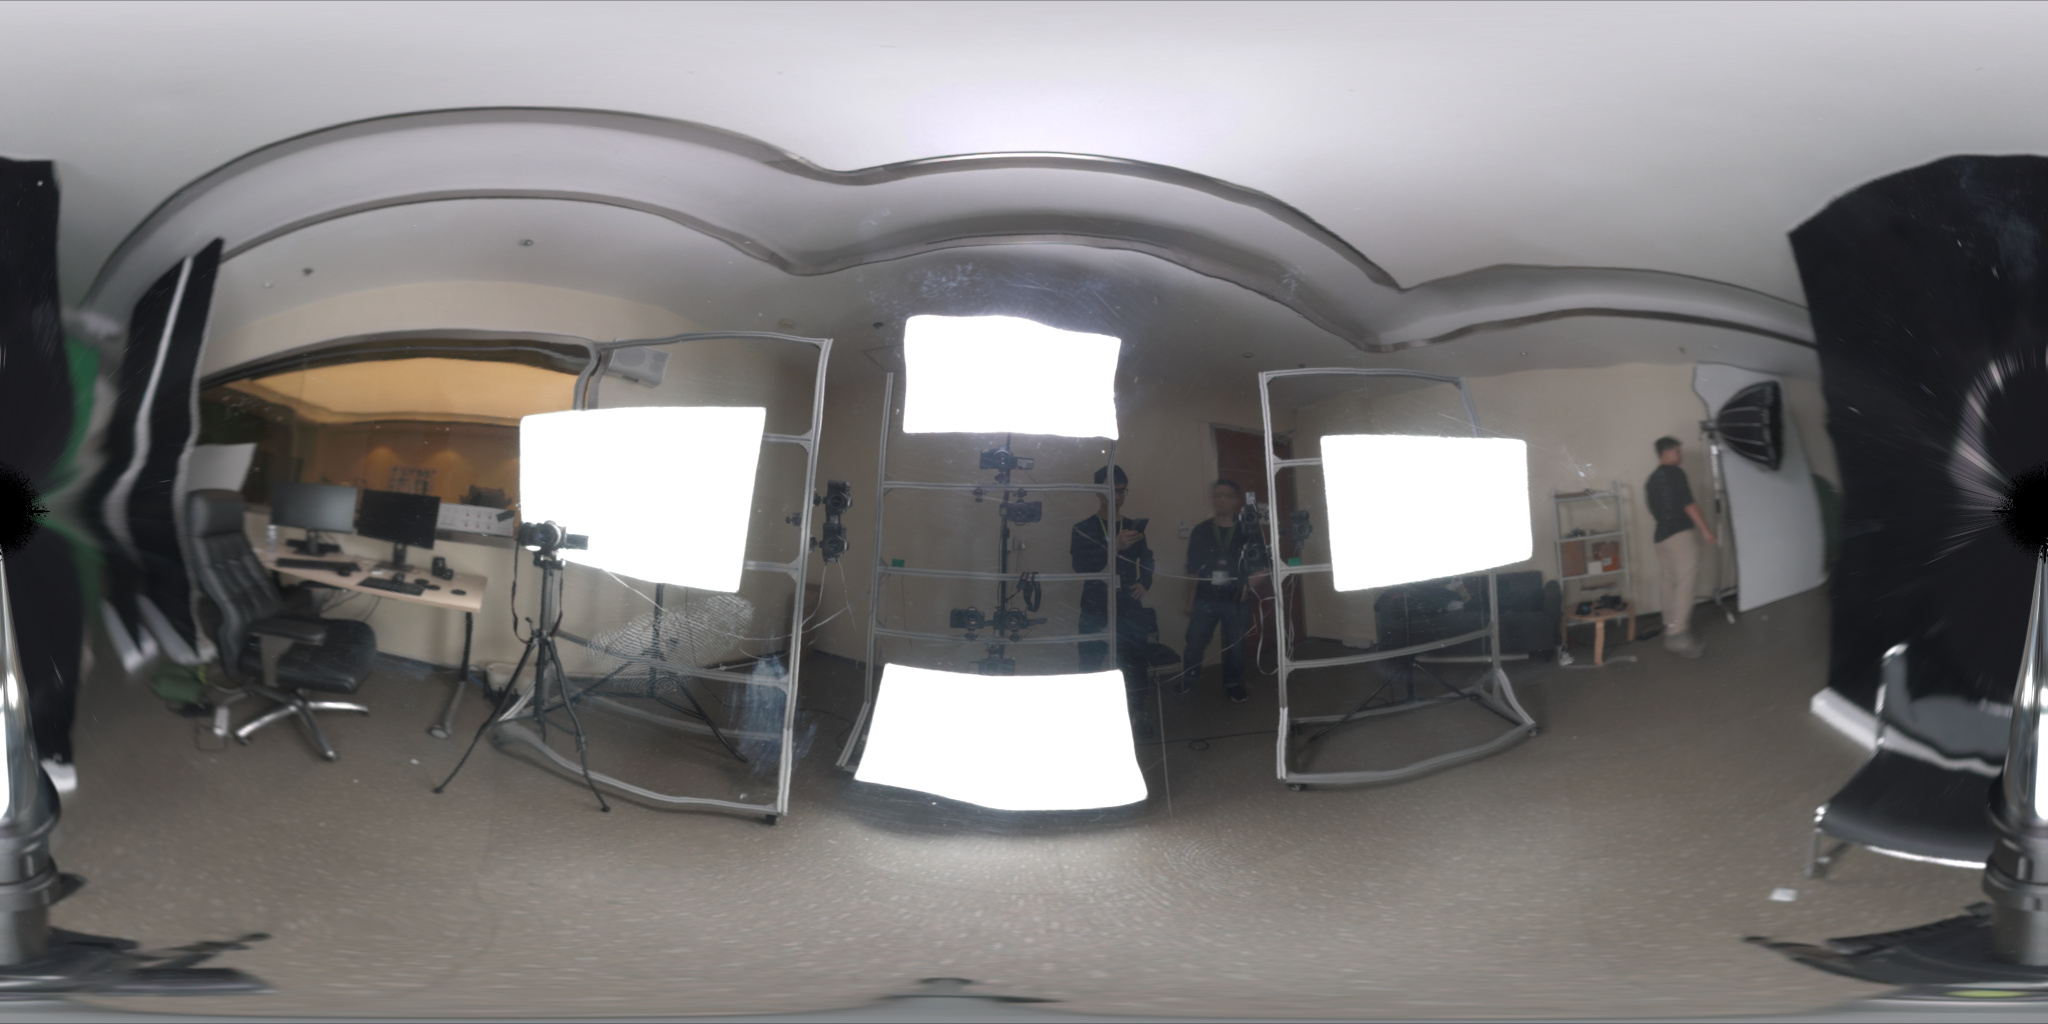
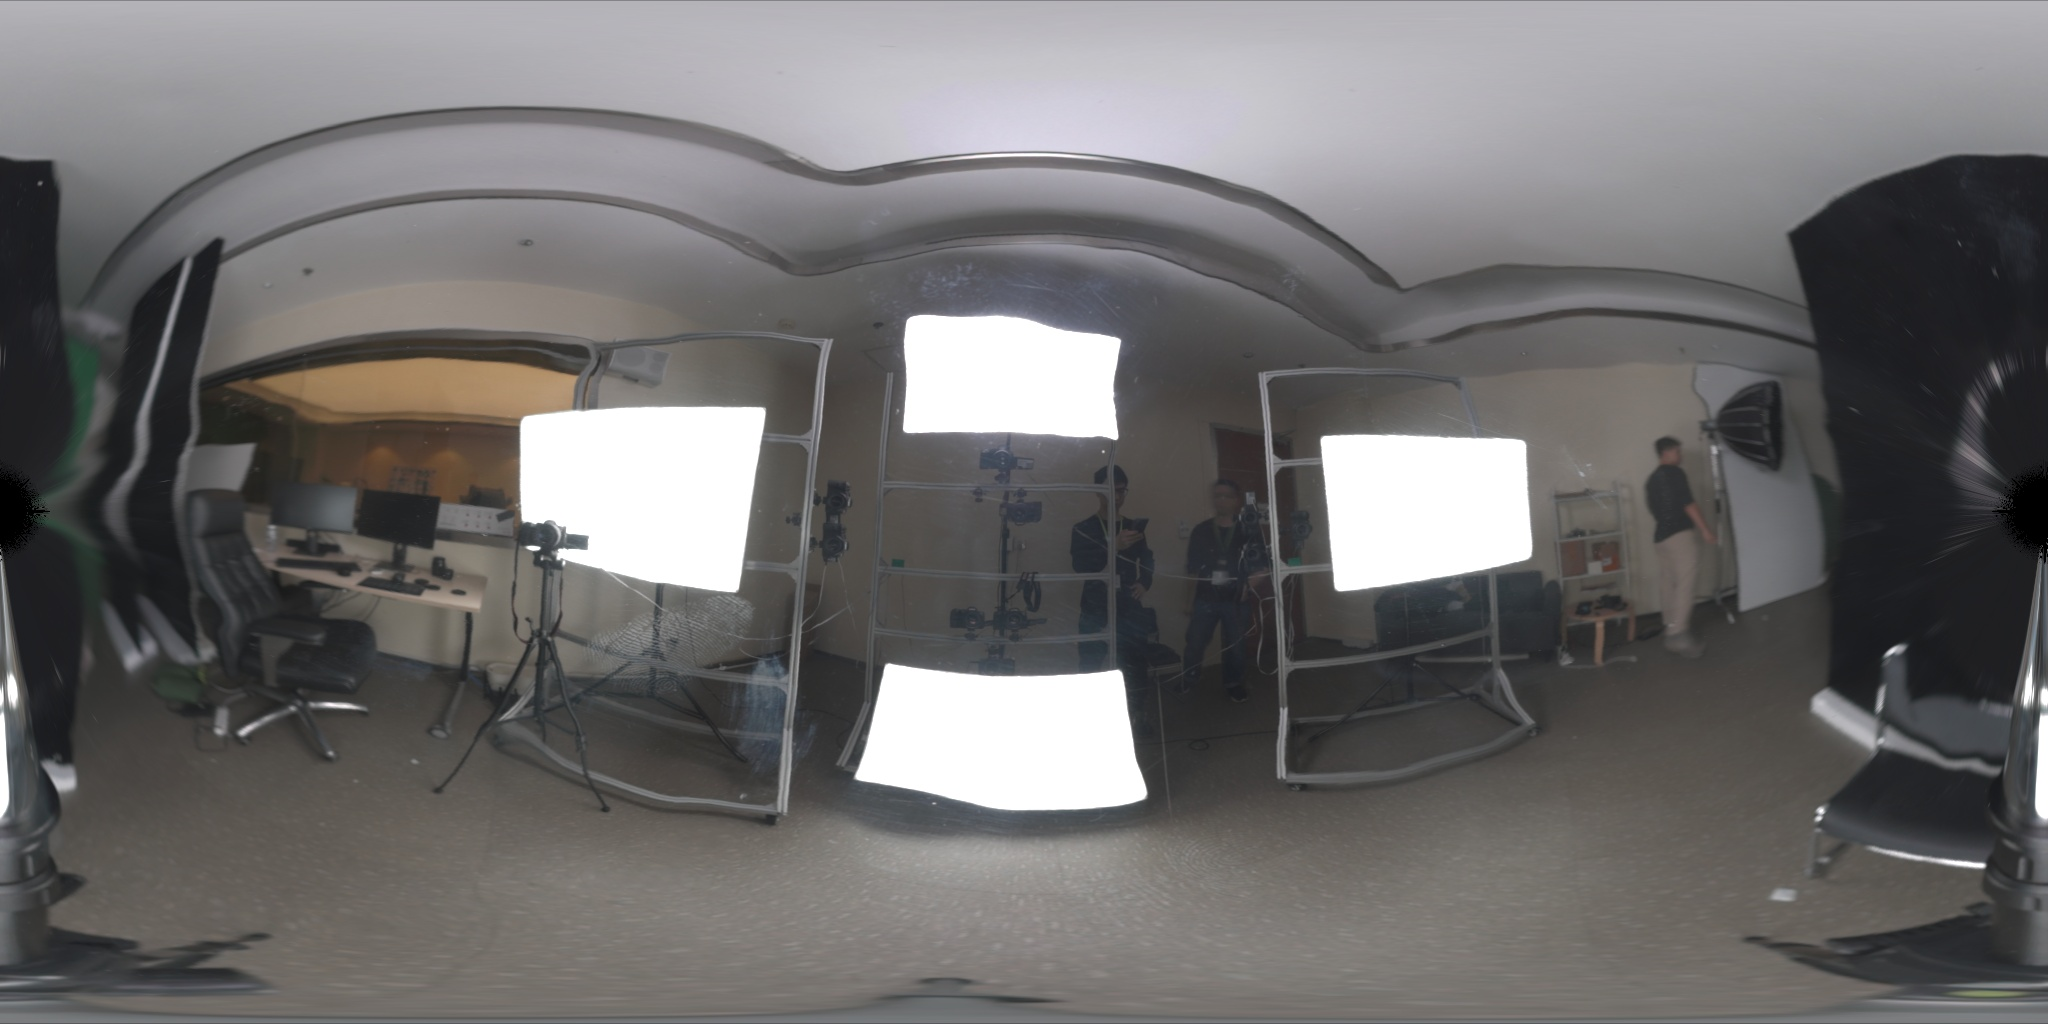
enhance HDRI figure

diff --git a/platform.tex b/platform.tex
@@ -202,9 +202,19 @@
 使用该技术编码的光照信息也常被用于计算机图形学领域。
 如图\ref{fig:HDRI}是一张以本节所述方法合成的，记录了本文目前实验环境的HDRI图像。
 \begin{figure}
-\centering
-\includegraphics[width=\textwidth]{figures/HDRI}
-\caption[实验环境全景HDRI图像]{实验环境全景HDRI图像。大图中展示了其中较暗部分的信息}
+\begin{tikzpicture}
+    \node [inner sep=0pt, anchor=north west] at (0,0) {\includegraphics[width=\textwidth]{figures/HDRI}};
+
+    \def\w{4096}
+    \node [inner sep=0pt, anchor=north west] (part) at (8.5cm,-0.8cm) {\includegraphics[width=0.1201171875\textwidth]{figures/HDRI_light_part}};
+    \coordinate (a) at ({(1768/\w)*\textwidth},{(-620/\w)*\textwidth});
+    \coordinate (b) at ({(2260/\w)*\textwidth},{(-900/\w)*\textwidth});
+    \node [inner sep=0pt, anchor=north west, draw=red, fit=(a) (b)] (light) {};
+
+    \path [->] (light) edge [red] node [left] {/32} (part);
+
+\end{tikzpicture}
+\caption[实验环境全景HDRI]{实验环境全景HDRI。通过多张金属反射球的照片合成。大图中展示了其中较暗部分的信息，小图展示了其中一个柔光箱处亮度调整到1/32时的图像}
 \label{fig:HDRI}
 \end{figure}
 

diff --git a/main.tex b/main.tex
@@ -10,7 +10,7 @@
 \usepackage[author={胡玮文}]{pdfcomment}
 \usepackage{tikz}
 \usepackage{wrapfig}
-\usetikzlibrary{intersections,calc,positioning}
+\usetikzlibrary{intersections,calc,positioning,fit}
 
 \regtotcounter{chapter}
 
